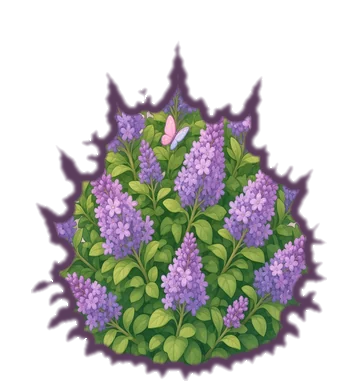
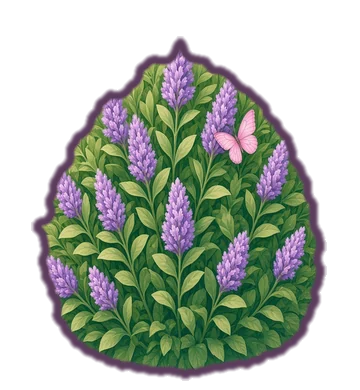
art(backyard): butterfly-bush repaint + per-asset SMOOTH option in art_process_peel.py for a smooth edge

diff --git a/scripts/art_process_peel.py b/scripts/art_process_peel.py
@@ -50,6 +50,23 @@ def deband(rgb, obj, max_px=40):
 
 
 ap.deband = deband
+
+# SMOOTH=kind[:r],...  Morphological open (radius r, default 8 raw px) of the keyed
+# silhouette, so jagged leaf tips are trimmed and the plum band follows a smooth edge.
+SMOOTH = {}
+for _t in filter(None, os.environ.get('SMOOTH', '').split(',')):
+    _k, _, _r = _t.partition(':'); SMOOTH[_k] = int(_r or 8)
+_key = ap.key
+def key(rgb, see_through=False, band=False):
+    out_rgb, solid, opening = _key(rgb, see_through, band)
+    r = SMOOTH.get(_cur['kind'])
+    if r:
+        from scipy import ndimage as _ndi
+        yy, xx = np.ogrid[-r:r + 1, -r:r + 1]
+        disk = xx * xx + yy * yy <= r * r
+        solid = _ndi.binary_closing(_ndi.binary_opening(solid, disk), disk) & solid | _ndi.binary_opening(solid, disk)
+    return out_rgb, solid, opening
+ap.key = key
 _build = ap.build
 
 
